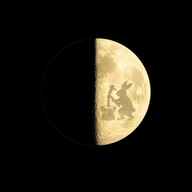
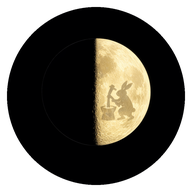
v6: 月アイコンを円形透過PNGに切り出し＋v6.jsキャッシュバスター付与
- 30枚すべてに円形アルファマスクをかけ、月の輪郭の外側を完全透明化
  → 黒い四角の余白がレイアウトに被らなくなる
- today-big-moon のマイナスマージンを 0 に戻す
- moon_data_v6.js を ?v=2 で読み込んでキャッシュバスト
  → SVG時計の clockRightDeg が古いキャッシュで失われていた問題を解消

diff --git a/tsukiyoga_v6.html b/tsukiyoga_v6.html
@@ -4,7 +4,7 @@
 <meta charset="UTF-8">
 <meta name="viewport" content="width=device-width, initial-scale=1.0, maximum-scale=1.0, user-scalable=no">
 <title>ツキヨガ v6 · 月はいまどこに</title>
-<script src="./moon_data_v6.js" defer></script>
+<script src="./moon_data_v6.js?v=2" defer></script>
 
 <!-- PWA -->
 <link rel="manifest" href="./manifest.json">
@@ -2041,7 +2041,7 @@
 
   .today-big-moon {
     width: 200px; height: 200px;
-    margin: -0.2rem auto -0.4rem;
+    margin: 0 auto;
     position: relative;
     display: flex;
     align-items: center;
